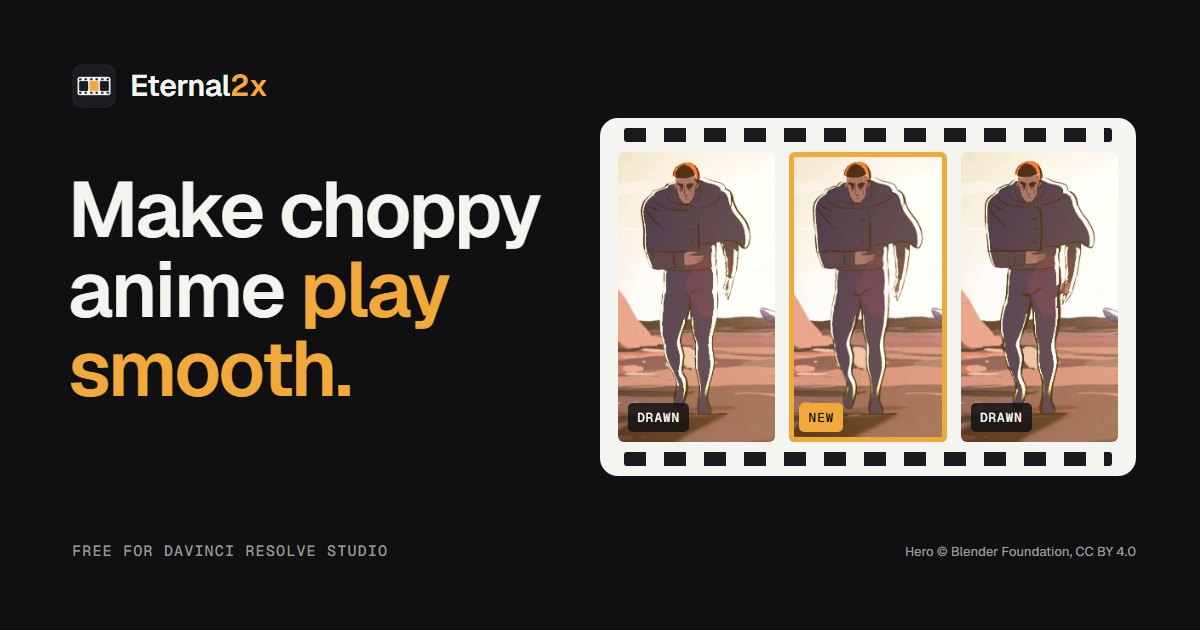
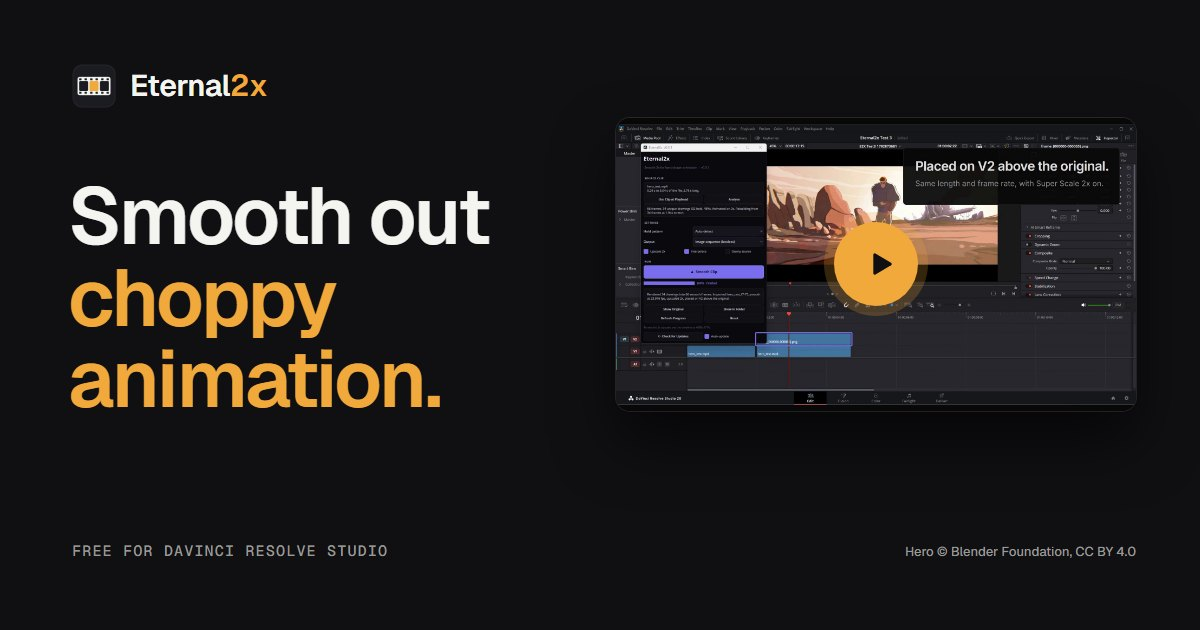
Speak to all hand-drawn animation, bring back the specs table, and make the film look like a video
The headline now says choppy animation, not only anime. The specs table
replaces the three small boxes. The film opens on a frame inside Resolve
with a large play button that starts it with sound.

Changed region(s): [[0.4933, 0.181, 0.9558, 0.754], [0.0617, 0.4222, 0.37, 0.6635], [0.0617, 0.2714, 0.4625, 0.3921]]

diff --git a/docs/index.html b/docs/index.html
@@ -3,14 +3,14 @@
 <head>
     <meta charset="UTF-8">
     <meta name="viewport" content="width=device-width, initial-scale=1.0">
-    <title>Eternal2x | Make choppy anime play smooth, in DaVinci Resolve</title>
-    <meta name="description" content="Eternal2x is a free DaVinci Resolve Studio plugin for hand-drawn animation. It finds the real drawings in a held shot, draws every missing in-between, and puts the result on the track above your clip.">
+    <title>Eternal2x | Smooth out choppy animation in DaVinci Resolve</title>
+    <meta name="description" content="Eternal2x is a free DaVinci Resolve Studio plugin that smooths out choppy hand-drawn animation. It draws the frames between the drawings, so anime and cartoons play smooth at the full frame rate.">
     <link rel="canonical" href="https://eternal2x.com/">
     <meta name="theme-color" content="#101013">
     <meta property="og:type" content="website">
     <meta property="og:url" content="https://eternal2x.com/">
-    <meta property="og:title" content="Eternal2x: make choppy anime play smooth">
-    <meta property="og:description" content="A free DaVinci Resolve Studio plugin that finds the real drawings in a held shot and draws the in-betweens that were never drawn.">
+    <meta property="og:title" content="Eternal2x: smooth out choppy animation">
+    <meta property="og:description" content="A free DaVinci Resolve Studio plugin that draws the frames between the drawings, so hand-drawn animation plays smooth.">
     <meta property="og:image" content="https://eternal2x.com/assets/og.jpg">
     <meta property="og:image:width" content="1200">
     <meta property="og:image:height" content="630">
@@ -44,8 +44,8 @@
 
     <section class="hero">
         <p class="label">For DaVinci Resolve Studio</p>
-        <h1>Make choppy anime <span>play smooth.</span></h1>
-        <p>Anime is usually drawn at 12 frames a second, with each drawing shown twice. Eternal2x draws the missing frames in between, so the motion plays smooth at the full frame rate, and puts the result on the track above your clip.</p>
+        <h1>Smooth out <span>choppy animation.</span></h1>
+        <p>Hand-drawn animation, from anime to cartoons, holds each drawing for two or three frames, so it moves in steps. Eternal2x draws the frames in between, right inside DaVinci Resolve, so it plays smooth at the full frame rate.</p>
         <div class="actions">
             <a class="btn btn-amber" href="download.html">
                 <svg viewBox="0 0 24 24" fill="none" stroke="currentColor" stroke-width="2.4" stroke-linecap="round" stroke-linejoin="round" aria-hidden="true"><path d="M12 3v12"/><path d="m7 10 5 5 5-5"/><path d="M5 21h14"/></svg>
@@ -75,35 +75,35 @@
 
     <section class="section" id="how" aria-labelledby="film-title">
         <h2 id="film-title">See it in Resolve</h2>
-        <p class="lead">Analyse the clip, press Smooth Clip, and the result lands on the track above, lined up with the original. 21 seconds, sound on.</p>
+        <p class="lead">Analyse the clip, press Smooth Clip, and the result lands on the track above, lined up with the original.</p>
         <figure class="panel film">
-            <video src="assets/demo/promo.mp4" poster="assets/demo/promo.jpg" controls playsinline preload="none"
-                   width="1920" height="1080"
-                   aria-label="A 21 second film: the Hero walk as drawn and from Eternal2x, the panel in DaVinci Resolve, and the render on the track above the original"></video>
+            <div class="player">
+                <video src="assets/demo/promo.mp4" poster="assets/demo/promo-resolve.jpg" controls playsinline preload="none"
+                       width="1920" height="1080"
+                       aria-label="A 21 second film: the Hero walk as drawn and from Eternal2x, the panel in DaVinci Resolve, and the render on the track above the original"></video>
+                <button class="play" type="button" aria-label="Play the 21 second film">
+                    <span class="play-dot"><svg viewBox="0 0 24 24" aria-hidden="true"><path d="M8 5.5v13a1 1 0 0 0 1.5.86l11-6.5a1 1 0 0 0 0-1.72l-11-6.5A1 1 0 0 0 8 5.5z"/></svg></span>
+                    <span class="play-label">Watch, 0:21, sound on</span>
+                </button>
+            </div>
             <figcaption>Footage from <a href="https://studio.blender.org/projects/hero/">Hero</a> by the Blender Foundation, <a href="https://creativecommons.org/licenses/by/4.0/">CC BY 4.0</a>, edited. Sounds by <a href="https://kenney.nl/">Kenney</a>, CC0.</figcaption>
         </figure>
     </section>
 
-    <section class="section" aria-labelledby="needs-title">
-        <h2 id="needs-title">What you need</h2>
-        <p class="lead">One installer sets up the rest. The first render downloads the AI model, about 50 MB.</p>
-        <div class="needs">
-            <div>
-                <span class="label">Resolve</span>
-                <p>DaVinci Resolve Studio 18 or newer</p>
-                <small>The free edition blocks script panels since 19.1.</small>
-            </div>
-            <div>
-                <span class="label">System</span>
-                <p>Windows 10 or 11, or macOS 12 or newer</p>
-                <small>Windows draws the in-betweens on the GPU where it can.</small>
-            </div>
-            <div>
-                <span class="label">Python</span>
-                <p>3.10 to 3.14</p>
-                <small>Older Macs need an older one. See the <a href="help.html#macos">Mac guide</a>.</small>
-            </div>
-        </div>
+    <section class="section" id="specs" aria-labelledby="specs-title">
+        <h2 id="specs-title">Specs</h2>
+        <p class="lead">One installer sets up the Python packages, copies the panel into Resolve and writes its settings. <a href="help.html#windows">Step by step guide</a>.</p>
+        <dl class="specs">
+            <div><dt>Resolve</dt><dd>DaVinci Resolve Studio 18 or newer<small>Since 19.1 the free edition blocks script panels like this one.</small></dd></div>
+            <div><dt>System</dt><dd>Windows 10 or 11, or macOS 12 or newer</dd></div>
+            <div><dt>Python</dt><dd>3.10 to 3.14, free from <a href="https://www.python.org/downloads/latest/python3.14/">python.org</a><small>3.15 is too new for the AI runtime. Older Macs need an older Python, see the <a href="help.html#macos">Mac guide</a>.</small></dd></div>
+            <div><dt>GPU</dt><dd>Any DirectX 12 card on Windows<small>The in-betweens are drawn on the GPU through DirectML. Macs draw them on the CPU, which is slower.</small></dd></div>
+            <div><dt>In-betweens</dt><dd>RIFE 4.25, run on your own machine<small>The first render downloads the model and its runtime, about 50 MB, once.</small></dd></div>
+            <div><dt>Upscale</dt><dd>2x with Resolve's own Super Scale<small>Shows on a timeline bigger than the clip, such as 4K for 1080p footage.</small></dd></div>
+            <div><dt>Output</dt><dd>Image sequence, MP4 or MKV<small>Lossless image sequence by default, 8-bit RGB. Same length and frame rate as the original.</small></dd></div>
+            <div><dt>Updates</dt><dd>Checked each time the panel opens<small>Every download is checked against its checksum before it's applied.</small></dd></div>
+            <div><dt>Price</dt><dd>Free</dd></div>
+        </dl>
     </section>
 
     <section class="get" aria-labelledby="get-title">

diff --git a/docs/css/site.css b/docs/css/site.css
@@ -167,21 +167,67 @@ h1, h2 { margin: 0; font-weight: 600; letter-spacing: -.025em; }
 .section h2 { font-size: clamp(26px, 3.2vw, 34px); line-height: 1.15; }
 .section .lead { margin: 10px 0 24px; color: var(--soft); max-width: 36em; }
 
-.needs {
+/* The film opens on a frame inside Resolve with one big play button, so it
+   reads as a video. Its own controls come back once it plays. */
+.player { position: relative; }
+.player .play { display: none; }
+.player.js .play {
+    position: absolute;
+    inset: 0;
     display: grid;
-    grid-template-columns: repeat(3, minmax(0, 1fr));
+    place-content: center;
+    justify-items: center;
+    gap: 14px;
+    border: 0;
+    border-radius: 6px;
+    background: rgba(6, 6, 10, .28);
+    color: var(--text);
+    cursor: pointer;
+    transition: background-color .2s ease;
+}
+.player.js .play:hover { background: rgba(6, 6, 10, .12); }
+.play-dot {
+    display: grid;
+    place-items: center;
+    width: clamp(64px, 9vw, 92px);
+    height: clamp(64px, 9vw, 92px);
+    border-radius: 50%;
+    background: var(--amber);
+    box-shadow: 0 0 0 10px rgba(242, 169, 59, .22), 0 16px 40px rgba(0, 0, 0, .55);
+    transition: transform .2s ease;
+}
+.player.js .play:hover .play-dot { transform: scale(1.06); }
+.play-dot svg { width: 38%; height: 38%; margin-left: 6%; fill: var(--bg); }
+.play-label {
+    font: 500 13px/1 var(--mono);
+    letter-spacing: .06em;
+    text-transform: uppercase;
+    padding: 8px 11px;
+    border-radius: 6px;
+    background: rgba(16, 16, 19, .82);
+    border: 1px solid var(--line-strong);
+}
+.player.playing .play { display: none; }
+
+.specs {
+    margin: 0;
     border: 1px solid var(--line);
     border-radius: 12px;
     background: var(--panel);
+    overflow: hidden;
 }
-.needs div { padding: 20px 22px; }
-.needs div + div { border-left: 1px solid var(--line); }
-.needs p { margin-top: 6px; }
-.needs small { display: block; margin-top: 4px; color: var(--mute); font-size: 14px; line-height: 1.5; }
-@media (max-width: 760px) {
-    .needs { grid-template-columns: 1fr; }
-    .needs div + div { border-left: 0; border-top: 1px solid var(--line); }
+.specs div {
+    display: grid;
+    grid-template-columns: 180px minmax(0, 1fr);
+    gap: 4px 24px;
+    padding: 16px 22px;
 }
+.specs div + div { border-top: 1px solid var(--line); }
+.specs dt { font: 500 12px/1.9 var(--mono); letter-spacing: .08em; text-transform: uppercase; color: var(--mute); }
+.specs dd { margin: 0; }
+.specs small { display: block; margin-top: 3px; color: var(--mute); font-size: 14.5px; line-height: 1.5; }
+.specs a { color: var(--soft); }
+@media (max-width: 560px) { .specs div { grid-template-columns: 1fr; } }
 
 .get {
     margin-top: clamp(72px, 10vw, 120px);

diff --git a/docs/js/site.js b/docs/js/site.js
@@ -163,3 +163,26 @@
         block.appendChild(button);
     });
 })();
+
+// The film starts on a frame inside Resolve under one big play button, so
+// nobody mistakes it for a picture. Pressing it plays with sound.
+(function () {
+    document.querySelectorAll('.player').forEach(function (player) {
+        var video = player.querySelector('video');
+        var play = player.querySelector('.play');
+        if (!video || !play) return;
+        player.classList.add('js');
+        video.controls = false;
+        function started() {
+            player.classList.add('playing');
+            video.controls = true;
+        }
+        play.addEventListener('click', function () {
+            started();
+            // A refused play leaves the controls up for a second try.
+            video.play().catch(function () {});
+            video.focus();
+        });
+        video.addEventListener('play', started);
+    });
+})();
